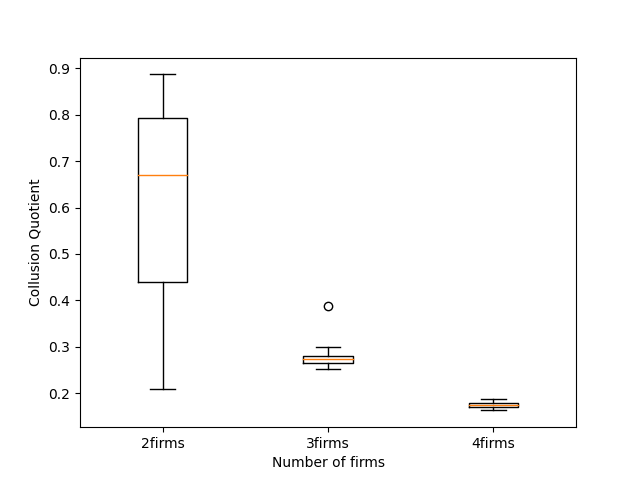
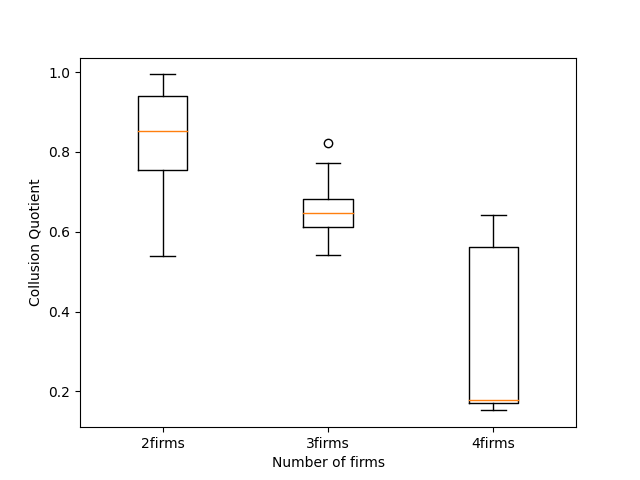
Push
Discount virker ikke

diff --git a/graph_heatmap_alpha_beta.py b/graph_heatmap_alpha_beta.py
@@ -8,55 +8,36 @@ from os.path import basename
 import cProfile
 import pstats
 
-filename = basename(__file__)
+filename = basename(__file__).replace('.py', '')
 
 def main():
     # Start
     alphas = np.linspace(0.0, 0.25, 10, endpoint=False) #SET Alpha values
     betas = np.linspace(0.0, 2*10**-5, 10, endpoint=False) #SET Beta values
-    times = 25 #Repetitions
+    sessions = 100
+    iterations = 10**7
+    numb_firms = 2
 
     average_collusion_quotient = [] #List to store average collusion quotients
-    sim_start = time.time()
-
     for alpha in alphas:
         for beta in betas: 
             fun = lambda t: np.exp(-beta*t) #lambda function for exploration rate
             print(f"alpha = {alpha}, beta = {beta}")
-            start = time.time()
-            new_config = config.create_config(exploration_rate=fun, learning_rate=alpha)
-            sum_collusion_quotients = 0
-            for i in range(times):
-                market, states = SIMULATOR.simulate(new_config)
+            new_config = config.create_config(sessions=sessions, iterations=iterations, numb_firms=numb_firms, alpha=alpha, beta=beta)
+            market, results = SIMULATOR.simulate_sessions(new_config, filename=filename, parallel=True, savedData=False)
+            min_length = min(len(result) for result in results)
+            collusion_quotients = [[state.collussion_quotient for state in result[-100000:]] for result in results]
+            collusion_quotients = np.array(collusion_quotients)
+            average_collusion_quotient.append(np.mean(collusion_quotients))
 
-                profits = np.array([state.profits for state in states[-1000:]])
 
-                mean = np.mean(profits)
-                nash = np.mean(market.get_nash_profits())
-                mono = np.mean(market.get_monopoly_profits())
-
-                collusion_quotient = lib.get_collusion_quotient(mean, nash, mono)
-                sum_collusion_quotients += collusion_quotient
-
-            end = time.time()
-            print(f"Average collusion quotient: {sum_collusion_quotients/times}")
-            print(f"Time: {end-start}s")
-            average_collusion_quotient.append(sum_collusion_quotients/times)
-
-    sim_end = time.time()
-    print(f"Total time: {sim_end-sim_start}s")
     #Plotting heatmap of collusion quotients for different beta and alpha values
     average_collusion_quotient = np.array(average_collusion_quotient).reshape(len(alphas), len(betas))
     plt.imshow(average_collusion_quotient, cmap='hot_r', origin='lower', interpolation='nearest')
-    #plt.xticks(ticks = [5*10**(-6),1*10**(-5),1.5*10**(-5)], labels=[0.5,1,1.5])
-    #plt.yticks(ticks = [0.05,0.1,0.15,0.2], labels=[0.05,0.1,0.15,0.2])
     plt.colorbar()
     plt.ylabel(r'$\alpha$')
     plt.xlabel(r'$\beta$x$10^5$')
-    plt.figtext(0.15, 0.85, f"Total time: {sim_end-sim_start:.2f}s", fontsize=10)
-    filename = basename(__file__)
     plt.savefig(config.create_filepath(filename))
-    plt.show()
 
 
 if __name__ == "__main__":

diff --git a/graph_discount_factor.py b/graph_discount_factor.py
@@ -13,17 +13,17 @@ filename =  basename(__file__).replace('.py', '')
 def main():
 
     # Start
-    discount_factors = np.linspace(0.0, 1.0, 4, endpoint=False)
-    sessions = 2
-    iterations = 1000000
+    discount_factors = np.linspace(0.0, 1.0, 20, endpoint=False)
+    sessions = 1
+    iterations = 10**7
     numb_firms = 2
 
     average_collusion_quotient = [] #List to store average collusion quotients
     for gamma in discount_factors:    
         new_config = config.create_config(sessions=sessions, iterations=iterations, numb_firms=numb_firms, gamma=gamma)
-        market, results = SIMULATOR.simulate_sessions(new_config, filename=filename, parallel=False, savedData=False)
+        market, results = SIMULATOR.simulate_sessions(new_config, filename=filename, parallel=True, savedData=False)
         min_length = min(len(result) for result in results)
-        collusion_quotients = [[state.collussion_quotient for state in result[:-10000]] for result in results]
+        collusion_quotients = [[state.collussion_quotient for state in result[-1000000:]] for result in results]
         collusion_quotients = np.array(collusion_quotients)
         average_collusion_quotient.append(np.mean(collusion_quotients))
 

diff --git a/graph_3_firms_boxplot.py b/graph_3_firms_boxplot.py
@@ -10,8 +10,8 @@ filename =  basename(__file__)
 
 
 def main():
-    sessions =2
-    iterations = 1000000
+    sessions = 100
+    iterations = 10**7
     firm_count = range(2, 5)
 
     collusion_quotients_list = []
@@ -20,8 +20,8 @@ def main():
 
     for numb_firms in firm_count:
         new_config = config.create_config(sessions=sessions, iterations=iterations, numb_firms=numb_firms)
-        market, results = SIMULATOR.simulate_sessions(new_config, filename=filename, parallel=False, savedData=False)
-        collusion_quotients = [[state.collussion_quotient for state in result[:-25000]] for result in results]
+        market, results = SIMULATOR.simulate_sessions(new_config, filename=filename, parallel=True, savedData=False)
+        collusion_quotients = [[state.collussion_quotient for state in result[-100000:]] for result in results]
         collusion_quotients = np.array(collusion_quotients)
         collusion_quotients = np.mean(collusion_quotients, axis=(1,2))
         collusion_quotients = np.transpose(collusion_quotients)

diff --git a/graph_merger.py b/graph_merger.py
@@ -20,8 +20,8 @@ def new_session(market, iterations, start_period = 1, convergence = None):
 
 def main():
     # Start
-    sessions = 2
-    iterations = 1000000
+    sessions = 100
+    iterations = 10**7
     numb_firms = 3
 
     
@@ -29,7 +29,7 @@ def main():
 
     new_config = config.create_config(sessions=sessions, iterations=iterations, numb_firms=numb_firms)
 
-    market, results = SIMULATOR.simulate_sessions(new_config, filename=filename, parallel=False, savedData=False, session= new_session)
+    market, results = SIMULATOR.simulate_sessions(new_config, filename=filename, parallel=True, savedData=False, session= new_session)
     # Collusion Quotient:
     min_length = min(len(result) for result in results)
     collusion_quotients = [[state.collussion_quotient for state in result[:min_length]] for result in results]

diff --git a/graph_default.py b/graph_default.py
@@ -12,12 +12,12 @@ filename =  basename(__file__).replace('.py', '')
 
 def main():
     # Start
-    sessions = 2
-    iterations = 10000000
+    sessions = 1
+    iterations = 10**7
 
     new_config = config.create_config(sessions=sessions, iterations=iterations)
 
-    market, results = SIMULATOR.simulate_sessions(new_config, filename=filename, parallel=False, savedData=False)
+    market, results = SIMULATOR.simulate_sessions(new_config, filename=filename, parallel=True, savedData=False)
 
 
     # State frequency

diff --git a/main.py b/main.py
@@ -15,7 +15,7 @@ def execute_scripts(scripts):
             print(f'{script} not found')
 
 def main():
-    scripts = ['graph_default.py','graph_ma100.py','graph_discount_factor.py']
+    scripts = ['graph_3_firms_boxplot.py', 'graph_discount_factor.py', 'graph_heatmap_alpha_beta.py']
     execute_scripts(scripts)
 
 if __name__ == "__main__":

diff --git a/graph_ma100.py b/graph_ma100.py
@@ -14,8 +14,8 @@ filename =  basename(__file__).replace('.py', '')
 
 def main():
     # Start
-    sessions = 8
-    iterations = 10000000
+    sessions = 100
+    iterations = 10**7
     numb_firms = 2
 
     
